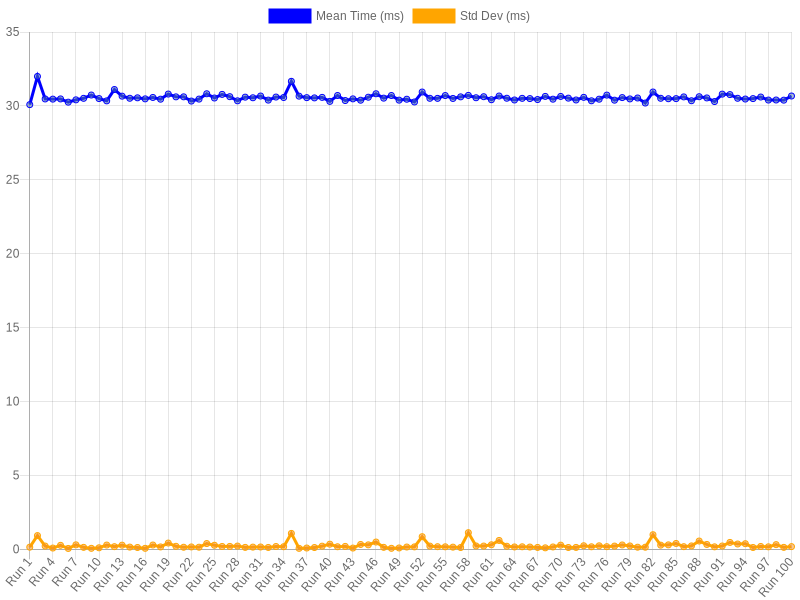
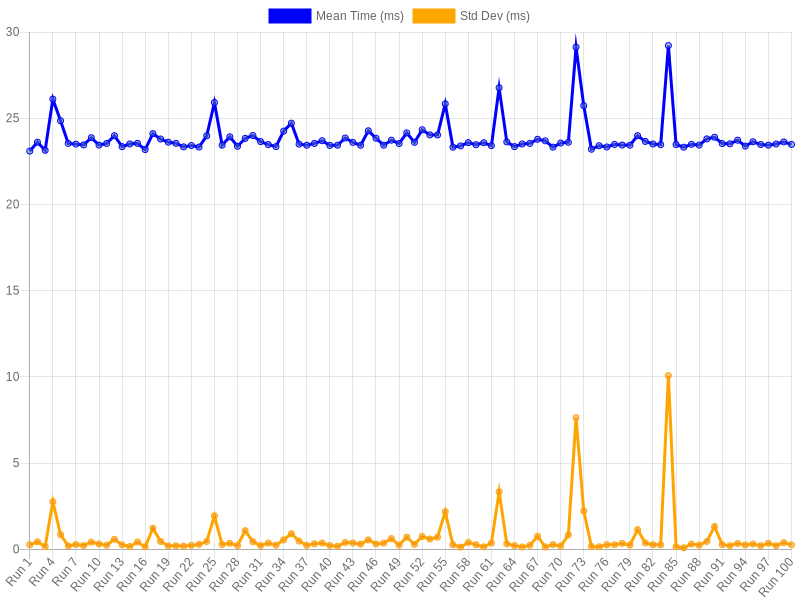
Updated benchmark results. Now only 23ms

diff --git a/README.md b/README.md
@@ -6,7 +6,7 @@ This PR contains my solution to the challenge defined on `exercise.md`.
 
 My solution focuses on efficient handling of large files by creating a byte-offset index for fast random access, combined with performance benchmarking to validate the implementation.
 
-It takes about **30ms** per read line, as you can see in the graph below
+It takes about **23ms** per read line, as you can see in the graph below
 
 <img src="./benchmark-results/graph.png" alt="Benchmark Chart: Execution Time vs Line Numbers" width="500" />
 
@@ -88,12 +88,12 @@ It’s significantly smaller than the dataset itself (e.g., for a `4.7gB` datase
 
 #### Optimized Solution
 
-The solution uses `fs.promises.read` combined with a binary index file to efficiently retrieve lines from the dataset. The binary index stores the byte offsets for each line, indicating where each line starts and ends within the dataset. This allows the program to:  
+The solution uses `vmtouch` to page-cache the files and uses Node's `fs.promises.read` combined with a binary index file to efficiently retrieve lines from the dataset. The binary index stores the byte offsets for each line, indicating where each line starts and ends within the dataset. This allows the program to:  
 
 - Access the specific byte range of the dataset file directly, avoiding unnecessary disk reads.  
 - Minimize memory usage by avoiding the need to load the entire dataset or index into memory.  
 
-This approach ensures fast, consistent performance, with an average runtime of **30ms** per line retrieval for a 100M-line dataset. The method is scalable and well-suited for handling large files in short-lived processes.  
+This approach ensures fast, consistent performance, with an average runtime of **23ms** per line retrieval for a 100M-line dataset. The method is scalable and well-suited for handling large files in short-lived processes.  
 
 #### Future improvements
 
